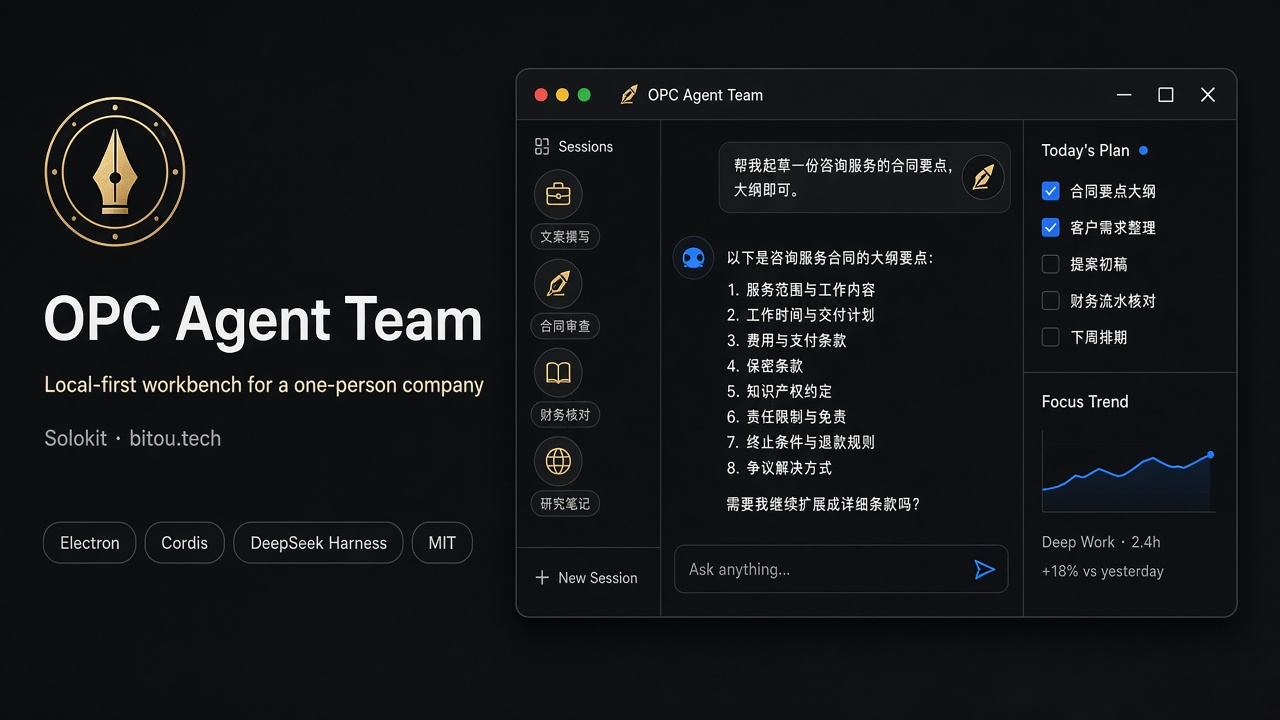
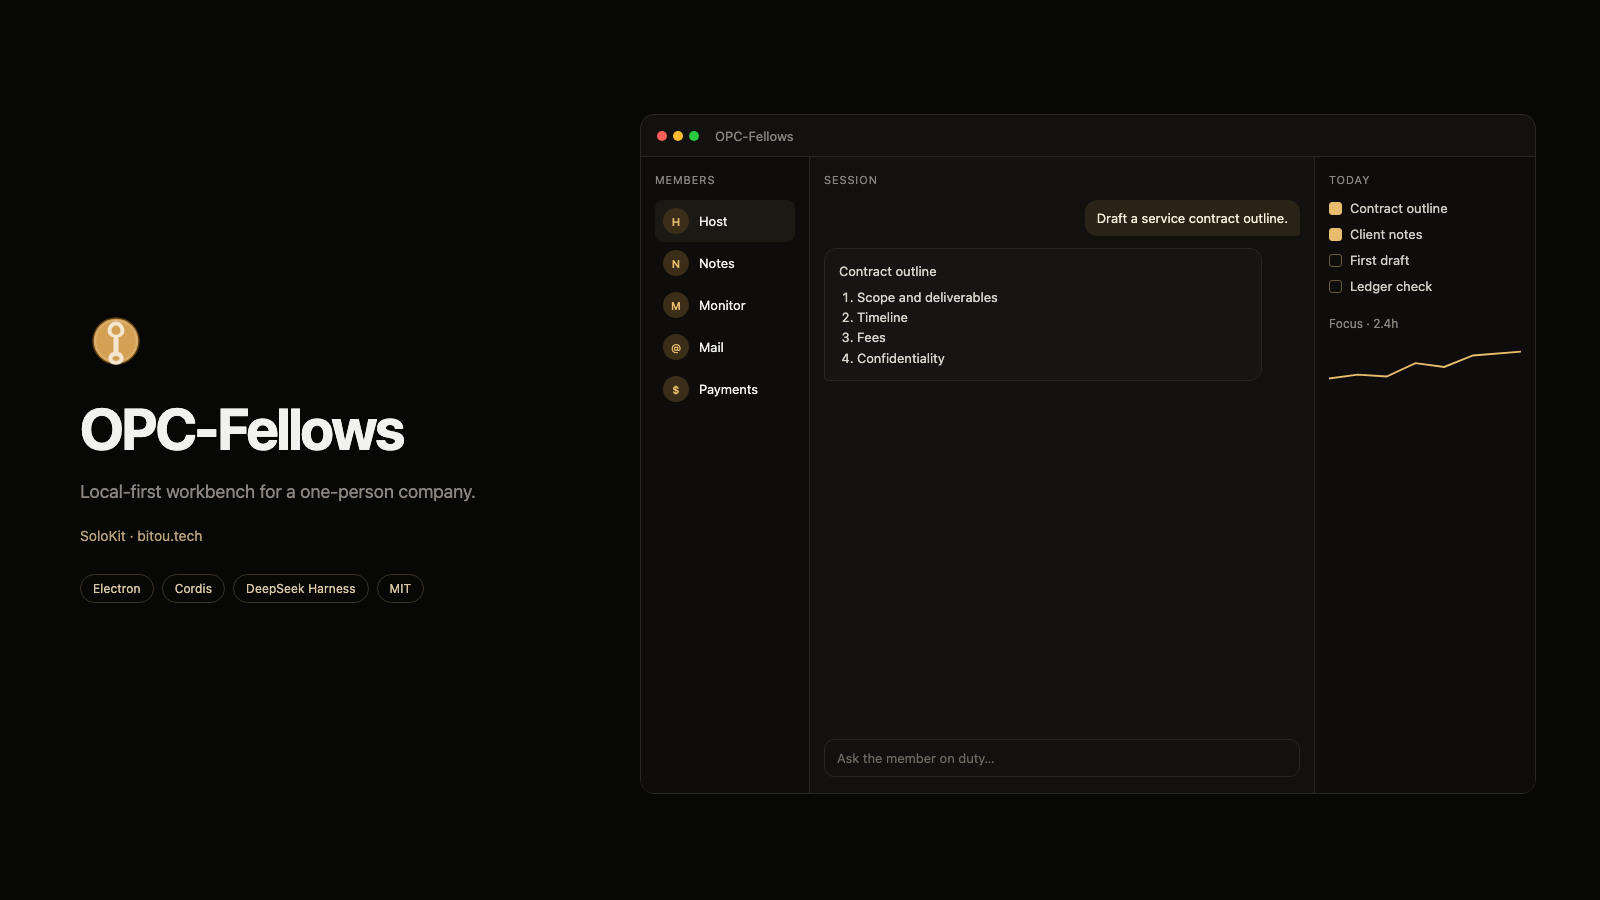
docs: refresh README cover for OPC-Fellows

diff --git a/docs/cover.html b/docs/cover.html
@@ -1,0 +1,312 @@
+<!doctype html>
+<html lang="en">
+  <head>
+    <meta charset="UTF-8" />
+    <title>OPC-Fellows cover</title>
+    <link rel="preconnect" href="https://fonts.googleapis.com" />
+    <link rel="preconnect" href="https://fonts.gstatic.com" crossorigin />
+    <link
+      href="https://fonts.googleapis.com/css2?family=Inter:wght@400;500;600;700&display=swap"
+      rel="stylesheet"
+    />
+    <style>
+      :root {
+        --bg: #070705;
+        --gold: #e8bc6c;
+        --gold-dim: #8a5e22;
+        --fg: #f1f1ef;
+        --muted: #8b8680;
+        --line: #2a2722;
+        --pane: #12110f;
+        --chip: #1c1a16;
+      }
+      * {
+        box-sizing: border-box;
+        margin: 0;
+        padding: 0;
+      }
+      html,
+      body {
+        width: 1600px;
+        height: 900px;
+        overflow: hidden;
+        background: var(--bg);
+        color: var(--fg);
+        font-family: Inter, ui-sans-serif, system-ui, sans-serif;
+      }
+      .stage {
+        width: 1600px;
+        height: 900px;
+        display: grid;
+        grid-template-columns: 520px 1fr;
+        padding: 72px 64px 64px 80px;
+        gap: 40px;
+        align-items: center;
+      }
+      .brand {
+        display: flex;
+        flex-direction: column;
+        gap: 22px;
+      }
+      .mark {
+        width: 72px;
+        height: 72px;
+      }
+      h1 {
+        font-size: 58px;
+        font-weight: 700;
+        letter-spacing: -0.04em;
+        line-height: 1;
+      }
+      .tag {
+        font-size: 18px;
+        color: var(--muted);
+        line-height: 1.45;
+        max-width: 420px;
+      }
+      .sub {
+        font-size: 14px;
+        color: #b9a27a;
+      }
+      .pills {
+        display: flex;
+        flex-wrap: wrap;
+        gap: 8px;
+        margin-top: 8px;
+      }
+      .pill {
+        border: 1px solid #3a342b;
+        color: #d8c7a4;
+        border-radius: 999px;
+        padding: 6px 12px;
+        font-size: 12px;
+        letter-spacing: 0.01em;
+      }
+      .window {
+        height: 680px;
+        background: var(--pane);
+        border: 1px solid var(--line);
+        border-radius: 14px;
+        display: flex;
+        flex-direction: column;
+        overflow: hidden;
+      }
+      .titlebar {
+        height: 42px;
+        display: flex;
+        align-items: center;
+        gap: 8px;
+        padding: 0 16px;
+        border-bottom: 1px solid var(--line);
+        color: var(--muted);
+        font-size: 13px;
+      }
+      .dots {
+        display: flex;
+        gap: 6px;
+        margin-right: 8px;
+      }
+      .dots i {
+        width: 10px;
+        height: 10px;
+        border-radius: 50%;
+        display: block;
+      }
+      .dots i:nth-child(1) {
+        background: #ff5f57;
+      }
+      .dots i:nth-child(2) {
+        background: #febc2e;
+      }
+      .dots i:nth-child(3) {
+        background: #28c840;
+      }
+      .cols {
+        flex: 1;
+        display: grid;
+        grid-template-columns: 168px 1fr 220px;
+        min-height: 0;
+      }
+      .rail,
+      .chat,
+      .panel {
+        padding: 16px 14px;
+        min-height: 0;
+      }
+      .rail,
+      .panel {
+        background: #0e0d0b;
+      }
+      .chat {
+        border-left: 1px solid var(--line);
+        border-right: 1px solid var(--line);
+        display: flex;
+        flex-direction: column;
+      }
+      .label {
+        font-size: 11px;
+        color: var(--muted);
+        letter-spacing: 0.08em;
+        text-transform: uppercase;
+        margin-bottom: 14px;
+      }
+      .member {
+        display: flex;
+        align-items: center;
+        gap: 10px;
+        padding: 8px;
+        border-radius: 8px;
+        font-size: 13px;
+      }
+      .member.active {
+        background: #1b1914;
+      }
+      .ava {
+        width: 26px;
+        height: 26px;
+        border-radius: 50%;
+        background: #3a2e18;
+        color: var(--gold);
+        display: grid;
+        place-items: center;
+        font-size: 11px;
+        font-weight: 600;
+      }
+      .bubble {
+        align-self: flex-end;
+        background: #2a2418;
+        color: #f3ead8;
+        border-radius: 12px 12px 4px 12px;
+        padding: 10px 12px;
+        font-size: 13px;
+        max-width: 86%;
+        margin-bottom: 12px;
+      }
+      .reply {
+        background: #161513;
+        border: 1px solid var(--line);
+        border-radius: 12px 12px 12px 4px;
+        padding: 12px 14px;
+        font-size: 13px;
+        line-height: 1.55;
+        color: #d8d4cc;
+        max-width: 92%;
+      }
+      .reply ol {
+        padding-left: 18px;
+        margin-top: 6px;
+      }
+      .composer {
+        margin-top: auto;
+        border: 1px solid var(--line);
+        border-radius: 10px;
+        padding: 10px 12px;
+        color: #6f6a63;
+        font-size: 13px;
+      }
+      .item {
+        display: flex;
+        gap: 8px;
+        align-items: flex-start;
+        font-size: 13px;
+        color: #d0ccc4;
+        margin-bottom: 10px;
+      }
+      .box {
+        width: 13px;
+        height: 13px;
+        border: 1px solid #6a5a38;
+        border-radius: 3px;
+        margin-top: 2px;
+        flex: none;
+      }
+      .box.on {
+        background: var(--gold);
+        border-color: var(--gold);
+      }
+      .chart {
+        margin-top: 22px;
+        color: var(--muted);
+        font-size: 12px;
+      }
+      svg.spark {
+        display: block;
+        width: 100%;
+        height: 54px;
+        margin-top: 8px;
+      }
+    </style>
+  </head>
+  <body>
+    <div class="stage">
+      <section class="brand">
+        <svg class="mark" viewBox="0 0 1024 1024" aria-hidden="true">
+          <circle cx="512" cy="512" r="338" fill="#5c4018" />
+          <circle cx="512" cy="512" r="318" fill="#d4a054" />
+          <circle cx="512" cy="512" r="292" fill="none" stroke="#f3e6d0" stroke-width="10" opacity="0.55" />
+          <path
+            d="M512 236 C430 236 392 318 392 368 C392 412 430 448 476 456 L476 668 C430 678 404 716 404 756 C404 808 448 848 512 848 C576 848 620 808 620 756 C620 716 594 678 548 668 L548 456 C594 448 632 412 632 368 C632 318 594 236 512 236 Z M512 292 C548 292 576 328 576 366 C576 398 552 422 512 422 C472 422 448 398 448 366 C448 328 476 292 512 292 Z M512 724 C542 724 564 740 564 758 C564 778 542 796 512 796 C482 796 460 778 460 758 C460 740 482 724 512 724 Z"
+            fill="#f3e6d0"
+          />
+        </svg>
+        <h1>OPC-Fellows</h1>
+        <p class="tag">Local-first workbench for a one-person company.</p>
+        <p class="sub">SoloKit · bitou.tech</p>
+        <div class="pills">
+          <span class="pill">Electron</span>
+          <span class="pill">Cordis</span>
+          <span class="pill">DeepSeek Harness</span>
+          <span class="pill">MIT</span>
+        </div>
+      </section>
+      <section class="window" aria-label="OPC-Fellows workbench">
+        <div class="titlebar">
+          <span class="dots"><i></i><i></i><i></i></span>
+          OPC-Fellows
+        </div>
+        <div class="cols">
+          <aside class="rail">
+            <div class="label">Members</div>
+            <div class="member active"><span class="ava">H</span>Host</div>
+            <div class="member"><span class="ava">N</span>Notes</div>
+            <div class="member"><span class="ava">M</span>Monitor</div>
+            <div class="member"><span class="ava">@</span>Mail</div>
+            <div class="member"><span class="ava">$</span>Payments</div>
+          </aside>
+          <main class="chat">
+            <div class="label">Session</div>
+            <div class="bubble">Draft a service contract outline.</div>
+            <div class="reply">
+              Contract outline
+              <ol>
+                <li>Scope and deliverables</li>
+                <li>Timeline</li>
+                <li>Fees</li>
+                <li>Confidentiality</li>
+              </ol>
+            </div>
+            <div class="composer">Ask the member on duty…</div>
+          </main>
+          <aside class="panel">
+            <div class="label">Today</div>
+            <div class="item"><span class="box on"></span>Contract outline</div>
+            <div class="item"><span class="box on"></span>Client notes</div>
+            <div class="item"><span class="box"></span>First draft</div>
+            <div class="item"><span class="box"></span>Ledger check</div>
+            <div class="chart">
+              Focus · 2.4h
+              <svg class="spark" viewBox="0 0 200 54">
+                <polyline
+                  fill="none"
+                  stroke="#e8bc6c"
+                  stroke-width="2"
+                  points="0,40 30,36 60,38 90,24 120,28 150,16 200,12"
+                />
+              </svg>
+            </div>
+          </aside>
+        </div>
+      </section>
+    </div>
+  </body>
+</html>
